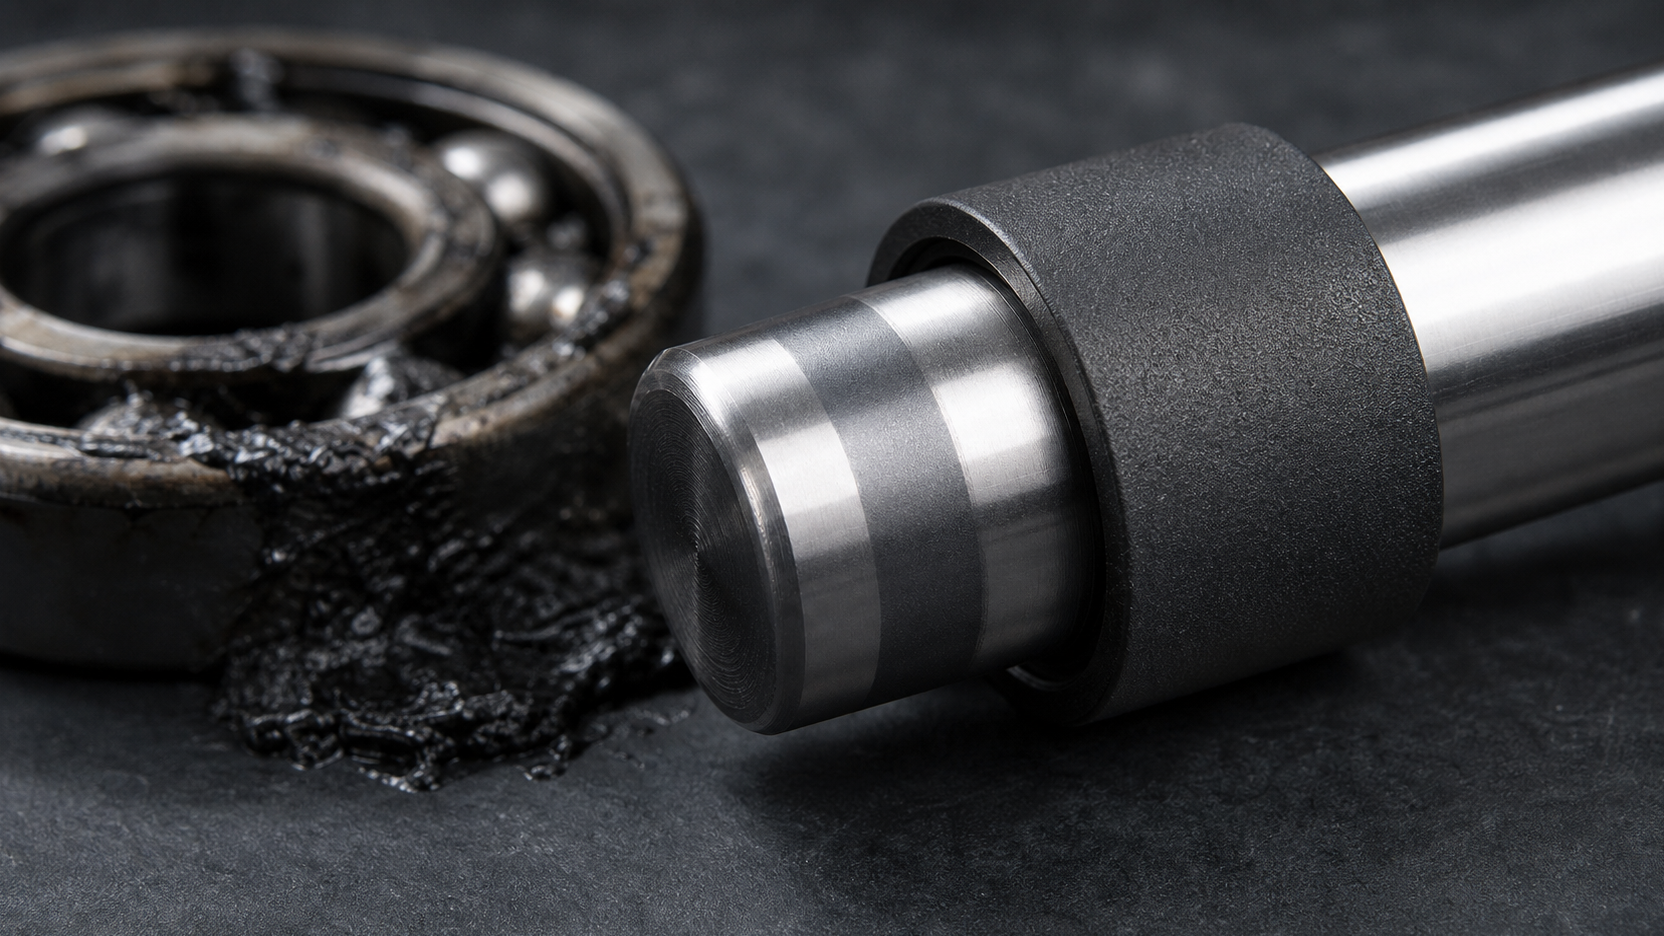
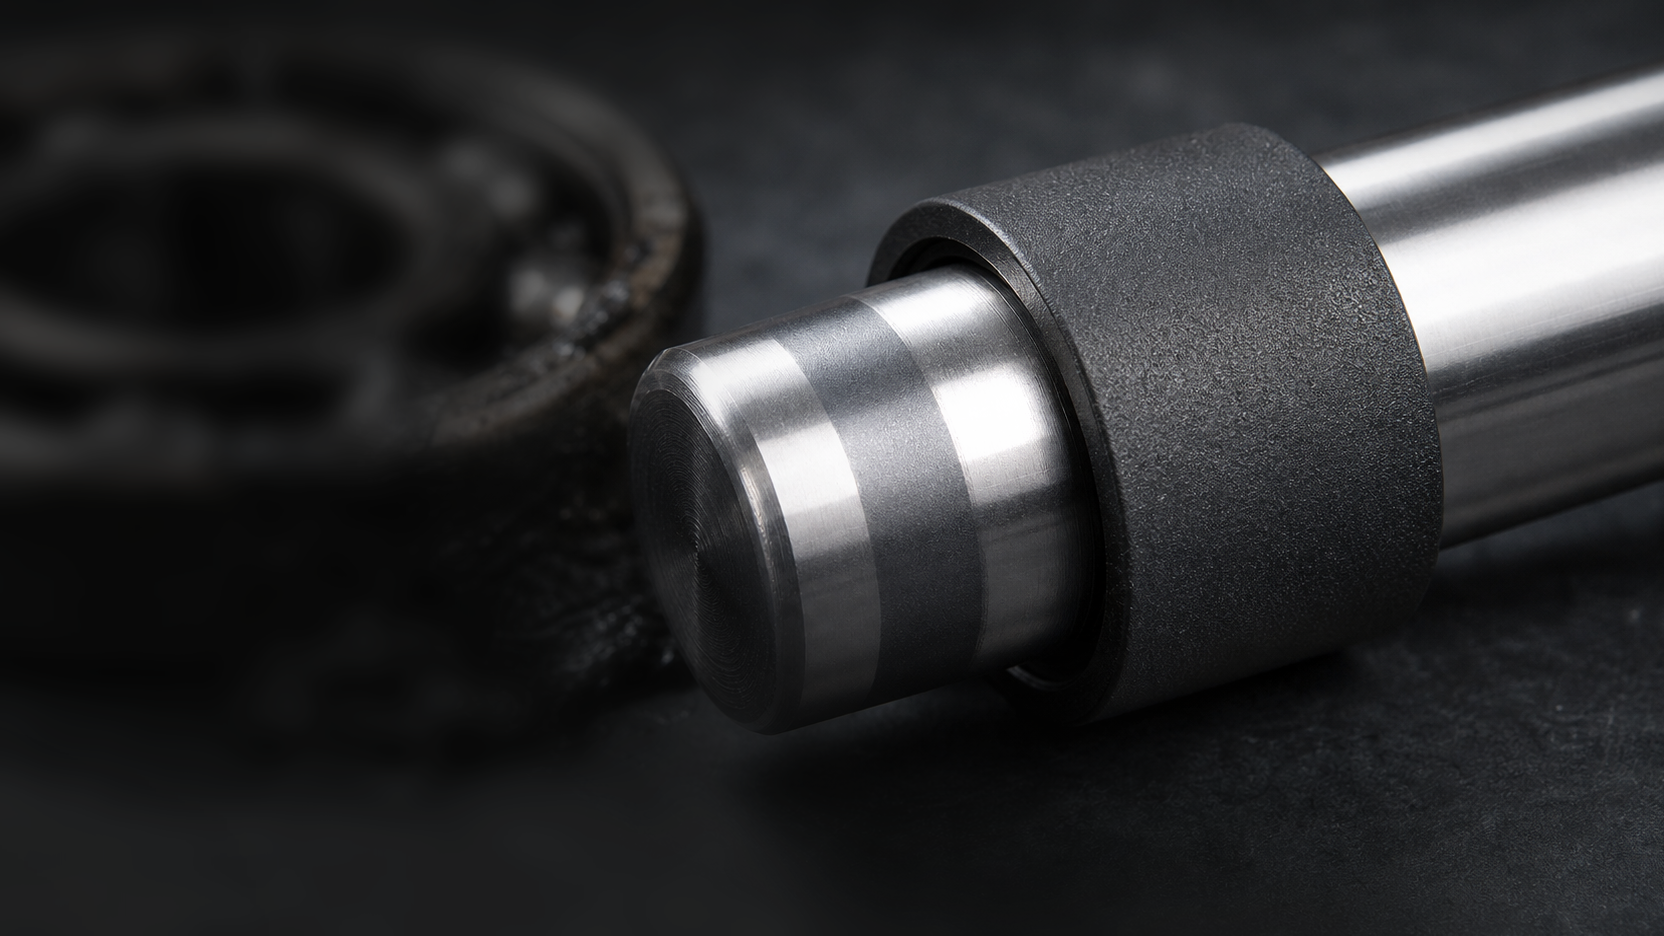
0906 v2: 功能图影调后期压背景；核电换冷却塔阴天版；国防换多装备同框阴天版；README补机理图英文标注逐词核实表

diff --git a/.memory/LEARNINGS.md b/.memory/LEARNINGS.md
@@ -173,3 +173,5 @@
 - 【生图两版策略】学术示意图给"英文标注版＋无文字版"双档：模型英文标注拼写基本可靠但中文必错，无文字版留给用户在 PPT 内加中文；照片类严禁任何文字/品牌（首稿机械臂出现 KUKA 字样即重做）。
 - 【中国地标构型要点名】"中国空间站"不点明"三舱 T 字/四翼柔性太阳翼"会画成 ISS 桁架混合体；国之重器类图要把构型特征写进 prompt 再目检。
 - 【16:9 精确化】生图工具原生输出 1672×941（≈1.7768 非精确 16:9），交付前统一中心裁切到 1664×936 并程序校验比值，不拉伸。
+- 【0906 二轮·用户审美反馈三条】①"背景抢镜"是首要否决项：宏大场景图里黄昏/逆光/扬尘天空都会把视线从"工业主体"上拉走，国之重器类图默认用**阴天平光、天空≤1/5、主体填满画面**；②领域代表图要"第一眼可识别"（核电＝巨型冷却塔，不是只有安全壳）且"一图多装备"（国防＝坦克+步战+火炮+导弹车+直升机+战机同框），不要单一机型；③抢镜配角用 PIL 后期（模糊+压暗+去饱和+软蒙版+暗角）比让生图模型"图生图压背景"更可控、更保主体不变。
+- 【标注图交付要附逐词核实表】用户要求"英文注解但绝不能虚假"，交付时把图上每一处文字列表→对应一手材料页码/公开文献→判定，放进 README；不能只说"我看过了"。
